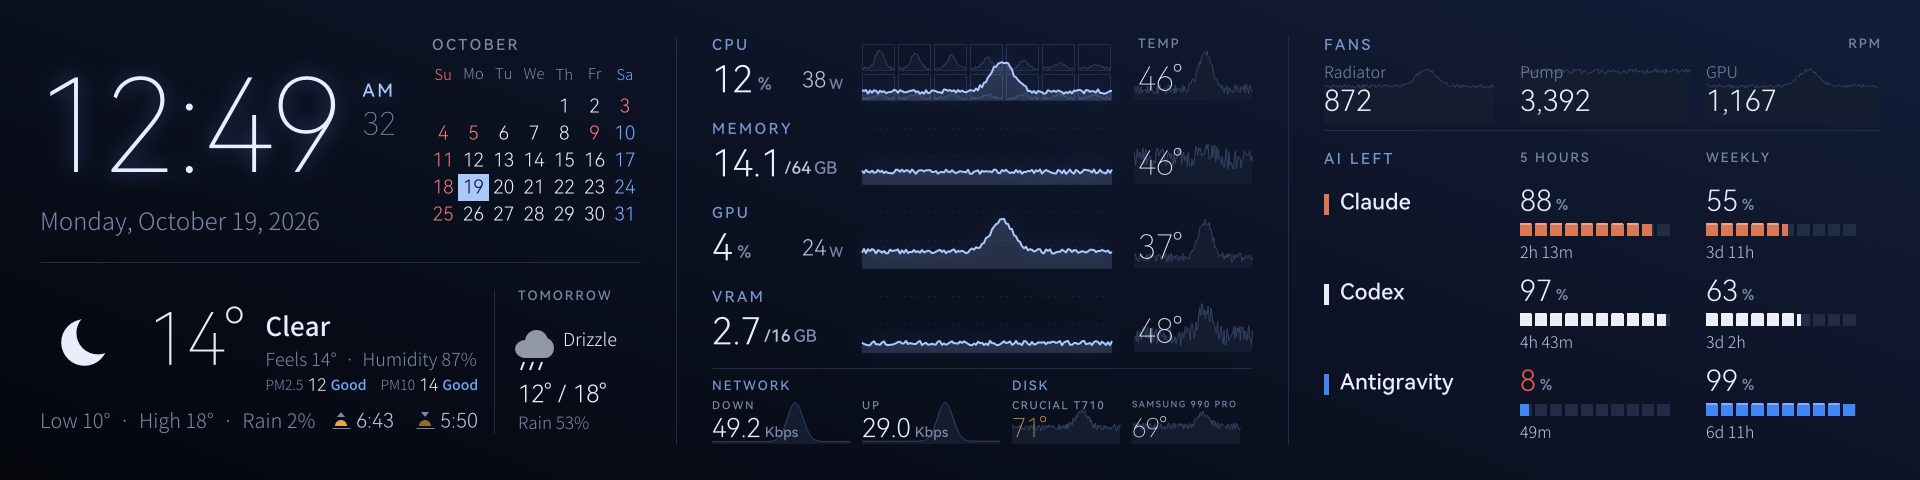
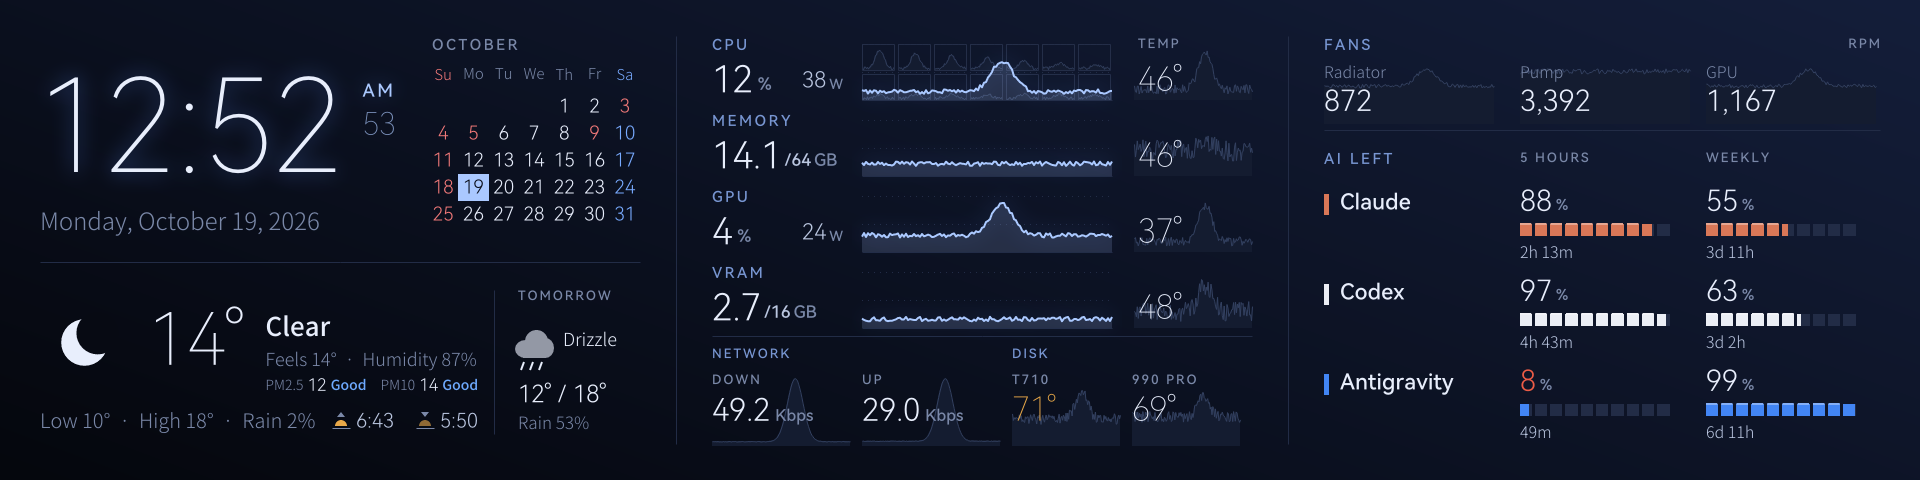
Bigger network and disk row; disk names without the vendor
The CPU / memory / GPU / VRAM rows move closer (84 -> 76 px pitch) so the bottom row gets
~30 px more: labels 12 -> 14 px, values 28 -> 34 px, disk temperatures 36 px. Disks show
the model only ("T710", "990 PRO").

diff --git a/rust/src/ui/hardware.rs b/rust/src/ui/hardware.rs
@@ -109,7 +109,7 @@ pub(super) fn draw_hardware(cv: &mut Canvas, st: &State, x: f32, right: f32) {
     ];
     let gx = x + 150.0;
     for (i, (label, key, val, total, unit, temp, power)) in rows.into_iter().enumerate() {
-        let y = TOP + i as f32 * 84.0;
+        let y = TOP + i as f32 * HW_ROW;
         cv.caps(x, y, label, 16.0, None, 2.5, false);
         if let Some(power) = power {
             // package / board power, right-aligned in the gap before the graph
@@ -156,21 +156,21 @@ pub(super) fn draw_hardware(cv: &mut Canvas, st: &State, x: f32, right: f32) {
     }
 
     // bottom row: small headings, then network speeds and disk temperatures under them
-    let y = TOP + 4.0 * 84.0 + 6.0;
+    let y = TOP + 4.0 * HW_ROW + 6.0;
     cv.line(&[(x, y - 10.0), (right, y - 10.0)], 1.0, RULE);
-    let (top, h) = (y + 18.0, 48.0); // graphs under the headings
-    let (f_val, f_unit) = (num(28.0, Face::Num), num(15.0, Face::NumSemi));
+    let (top, h) = (y + 22.0, BOTTOM - y - 20.0); // graphs under the headings
+    let (f_val, f_unit) = (num(34.0, Face::Num), num(17.0, Face::NumSemi));
     cv.caps(x, y, "Network", 14.0, None, 2.0, false);
     for (j, (label, key, rate)) in [("Down", "net_down", hw.net_down), ("Up", "net_up", hw.net_up)].into_iter().enumerate() {
         let nx = x + j as f32 * 150.0;
         bg_graph(cv, nx, top, 138.0, h, &st.hist[key], 125_000.0, None); // floor 1 Mbps
-        cv.caps(nx, y + 21.0, label, 12.0, Some(MUTED), 2.0, false);
+        cv.caps(nx, y + 26.0, label, 14.0, Some(MUTED), 2.0, false);
         match rate {
-            None => cv.text(nx, y + 35.0, "--", f_val, FAINT),
+            None => cv.text(nx, y + 46.0, "--", f_val, FAINT),
             Some(rate) => {
                 let (val, unit) = fmt_rate(rate);
-                cv.text(nx, y + 35.0, &val, f_val, INK);
-                cv.text(nx + cv.text_len(&val, f_val) + 4.0, y + 46.0, unit, f_unit, MUTED);
+                cv.text(nx, y + 46.0, &val, f_val, INK);
+                cv.text(nx + cv.text_len(&val, f_val) + 5.0, y + 60.0, unit, f_unit, MUTED);
             }
         }
     }
@@ -184,12 +184,12 @@ pub(super) fn draw_hardware(cv: &mut Canvas, st: &State, x: f32, right: f32) {
         let dx = dx0 + i as f32 * cw;
         bg_graph(cv, dx, top, cw - 12.0, h, &st.hist[["disk0", "disk1"][i.min(1)]], 0.0, Some(10.0));
         // model names vary in length: shrink the name to its cell
-        let size = [12.0, 11.0, 10.0, 9.0].into_iter().find(|&z| cv.caps_len(label, z, 1.5) <= cw - 14.0).unwrap_or(9.0);
-        cv.caps(dx, y + 21.0, label, size, Some(MUTED), 1.5, false);
-        let f = num(28.0, Face::NumLight);
+        let size = [14.0, 13.0, 12.0, 11.0, 10.0].into_iter().find(|&z| cv.caps_len(label, z, 2.0) <= cw - 14.0).unwrap_or(10.0);
+        cv.caps(dx, y + 26.0, label, size, Some(MUTED), 2.0, false);
+        let f = num(36.0, Face::NumLight);
         match temp {
-            None => cv.text(dx, y + 35.0, "--°", f, FAINT),
-            Some(t) => cv.text(dx, y + 35.0, &format!("{:.0}°", deg(*t)), f, temp_color(*t)),
+            None => cv.text(dx, y + 44.0, "--°", f, FAINT),
+            Some(t) => cv.text(dx, y + 44.0, &format!("{:.0}°", deg(*t)), f, temp_color(*t)),
         }
     }
 }

diff --git a/rust/src/sensors/disks.rs b/rust/src/sensors/disks.rs
@@ -3,7 +3,7 @@
 //!
 //! Which drives: the ones holding the drive letters in the settings (`[disks] show`), or else
 //! the first two internal drives (USB and virtual disks are skipped). Each is labeled with its
-//! model, shortened ("Samsung SSD 990 PRO 1TB" -> "Samsung 990 PRO", "CT2000T710SSD8" -> "Crucial T710"), or the
+//! model, shortened ("Samsung SSD 990 PRO 1TB" -> "990 PRO", "CT2000T710SSD8" -> "T710"), or the
 //! name in `[disks] labels`, or "Disk N" (the Windows disk number) when the model is unknown.
 
 use std::collections::BTreeMap;
@@ -113,10 +113,13 @@ fn model(number: u32) -> Option<String> {
     Some(String::from_utf8_lossy(&buf[at..end]).trim().to_string())
 }
 
-/// A readable name from a product id: vendor and model, without "SSD", the capacity or a
-/// part-number wrapper ("Samsung SSD 990 PRO 1TB" -> "Samsung 990 PRO", "CT2000T710SSD8" ->
-/// "Crucial T710").
+/// The model part of a product id: no vendor, "SSD", capacity or part-number wrapper
+/// ("Samsung SSD 990 PRO 1TB" -> "990 PRO", "CT2000T710SSD8" -> "T710").
 fn short_model(id: &str) -> String {
+    const VENDORS: [&str; 17] = [
+        "samsung", "crucial", "wdc", "wd", "western", "digital", "kingston", "sk", "hynix", "seagate", "sabrent", "adata", "lexar",
+        "micron", "intel", "toshiba", "kioxia",
+    ];
     let capacity = |t: &str| {
         let l = t.to_ascii_lowercase();
         let digits = l.trim_end_matches("gb").trim_end_matches("tb").trim_end_matches('g').trim_end_matches('t');
@@ -124,15 +127,16 @@ fn short_model(id: &str) -> String {
     };
     let words: Vec<String> = id
         .split_whitespace()
-        .filter(|w| !w.eq_ignore_ascii_case("ssd") && !capacity(w))
+        .filter(|w| !VENDORS.contains(&w.to_ascii_lowercase().as_str()) && !w.eq_ignore_ascii_case("ssd") && !capacity(w))
         .map(|w| {
-            // Crucial part numbers: CT2000T710SSD8 -> Crucial T710
+            // Crucial part numbers: CT2000T710SSD8 -> T710
             let up = w.to_ascii_uppercase();
             match (up.strip_prefix("CT"), up.find("SSD")) {
-                (Some(rest), Some(i)) if i > 2 => format!("Crucial {}", rest[..i - 2].trim_start_matches(|c: char| c.is_ascii_digit())),
+                (Some(rest), Some(i)) if i > 2 => rest[..i - 2].trim_start_matches(|c: char| c.is_ascii_digit()).to_string(),
                 _ => w.to_string(),
             }
         })
+        .filter(|w| !w.is_empty())
         .collect();
     words.join(" ")
 }
@@ -141,8 +145,8 @@ fn short_model(id: &str) -> String {
 mod tests {
     #[test]
     fn short_models() {
-        assert_eq!(super::short_model("Samsung SSD 990 PRO 1TB"), "Samsung 990 PRO");
-        assert_eq!(super::short_model("CT2000T710SSD8"), "Crucial T710");
+        assert_eq!(super::short_model("Samsung SSD 990 PRO 1TB"), "990 PRO");
+        assert_eq!(super::short_model("CT2000T710SSD8"), "T710");
         assert_eq!(super::short_model("WD_BLACK SN850X 2000GB"), "WD_BLACK SN850X");
     }
 }

diff --git a/rust/src/ui/mod.rs b/rust/src/ui/mod.rs
@@ -81,6 +81,8 @@ const RULES_X: [f32; 2] = [676.0, 1288.0];
 const TOP: f32 = 36.0;
 const BOTTOM: f32 = 444.0;
 
+/// Pitch of the CPU / memory / GPU / VRAM rows (leaves room for the network and disk row).
+const HW_ROW: f32 = 76.0;
 pub const GRAPH_W: f32 = 250.0;
 const GRAPH_H: f32 = 56.0;
 const GRAPH_STEP: f32 = 2.0;
@@ -118,6 +120,6 @@ pub fn render(st: &State, now: DateTime<Local>) -> Canvas {
 
     cv.glow((ax - 20.0) as u32, 0, (cal_x - 10.0) as u32, 240); // clock
     let gx = COL_B.0 + 150.0;
-    cv.glow((gx - 10.0) as u32, (TOP - 10.0) as u32, (gx + GRAPH_W + 10.0) as u32, (TOP + 3.0 * 84.0 + GRAPH_H + 20.0) as u32);
+    cv.glow((gx - 10.0) as u32, (TOP - 10.0) as u32, (gx + GRAPH_W + 10.0) as u32, (TOP + 3.0 * HW_ROW + GRAPH_H + 20.0) as u32);
     cv
 }

diff --git a/rust/src/diag.rs b/rust/src/diag.rs
@@ -38,7 +38,7 @@ pub fn fake_state() -> state::State {
         gpu: Some(4.0), gpu_temp: Some(37.0), gpu_power: Some(24.0), vram_used: Some(2.7), vram_total: Some(15.9), vram_temp: Some(48.0),
         fan_radiator: Some(872.0), fan_pump: Some(3392.0), fan_gpu: Some(1167.0),
         net_down: Some(49_200.0 / 8.0), net_up: Some(29_000.0 / 8.0),
-        disks: vec![("Crucial T710".into(), Some(71.0)), ("Samsung 990 PRO".into(), Some(69.0))],
+        disks: vec![("T710".into(), Some(71.0)), ("990 PRO".into(), Some(69.0))],
     };
     let mut seed = 12345u32;
     let mut rnd = move || {

diff --git a/README.md b/README.md
@@ -96,7 +96,7 @@ labels = []              # e.g. ["Radiator", "Pump", "GPU"]
 
 [disks]
 show = []                # disk temperatures: up to two drive letters, e.g. ["C", "D"]; empty = first two internal drives
-labels = []              # names for them; empty = the drive model ("Samsung 990 PRO")
+labels = []              # names for them; empty = the drive model ("990 PRO")
 ```
 
 ## How the AI usage is read
